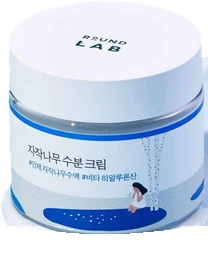
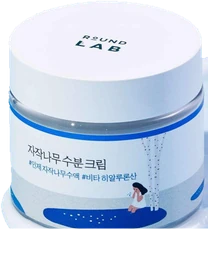
清除面霜圖底部白色光暈

Changed region(s): [[0.2308, 0.8615, 0.8365, 0.9231], [0.8654, 0.8615, 1.0, 0.8923], [0.0288, 0.8615, 0.0865, 0.8923]]

diff --git a/styles.css b/styles.css
@@ -2427,6 +2427,10 @@ button.product-card__quick-add,
   width: 82px;
   height: auto;
   object-fit: contain;
+  /* The source packshot includes a pale floor shadow under the jar. Fade only
+     that last edge so the product stays intact without a white halo on blue. */
+  -webkit-mask-image: linear-gradient(to bottom, #000 0 86%, transparent 96%);
+  mask-image: linear-gradient(to bottom, #000 0 86%, transparent 96%);
   filter: drop-shadow(0 8px 8px rgba(7, 25, 31, 0.28));
 }
 
